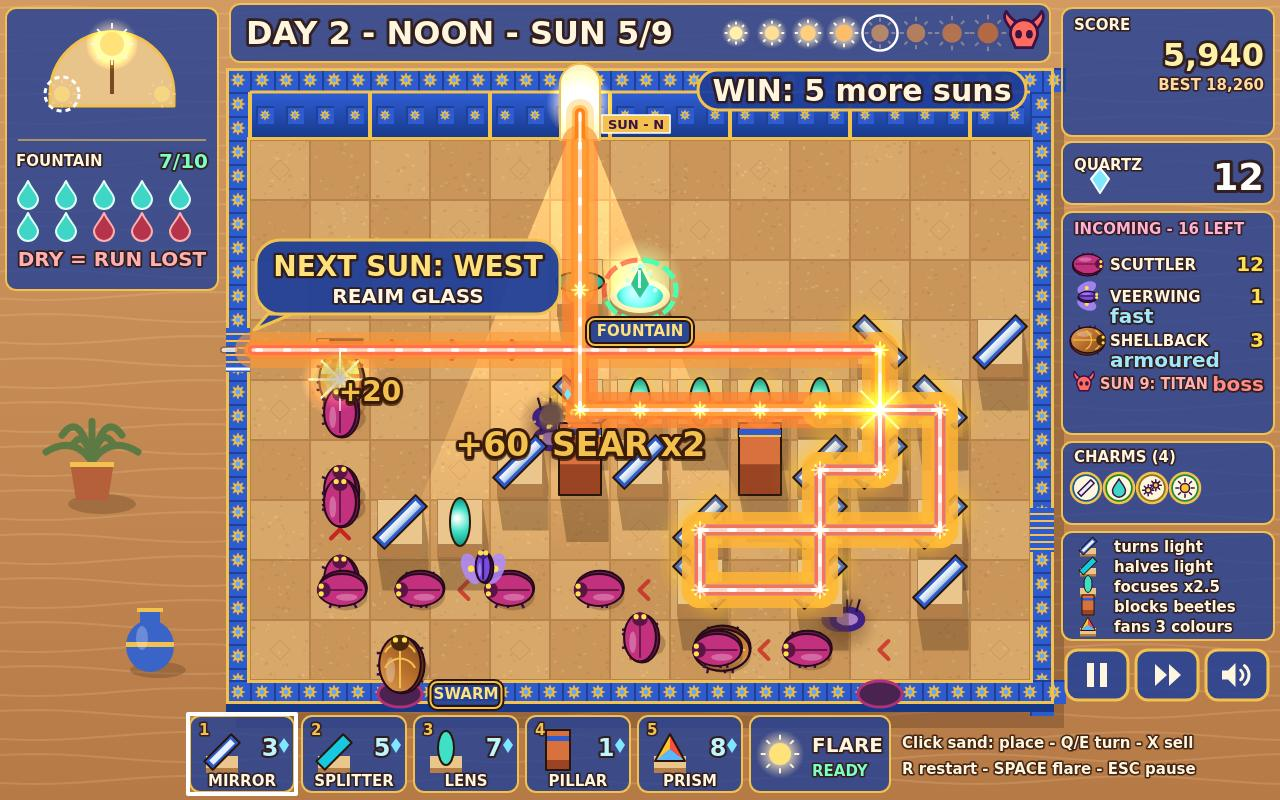
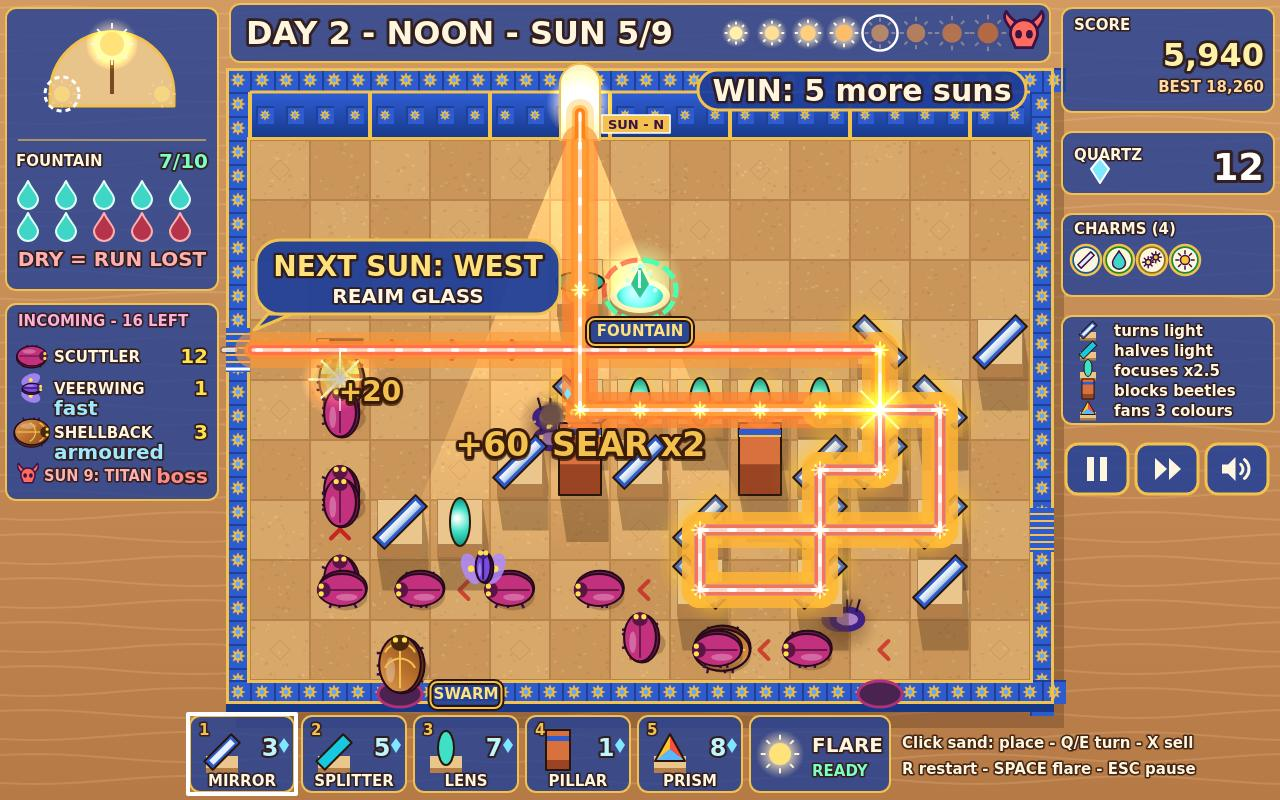
Cover columns rebalanced: INCOMING under the fountain on the left, right column SCORE / QUARTZ / CHARMS / legend / buttons 20 px apart; props removed

Changed region(s): [[0.8125, 0.0938, 1.0, 0.875], [0.0, 0.375, 0.1875, 0.6562], [0.0938, 0.75, 0.1562, 0.8438]]

diff --git a/game/src/render/hud.js b/game/src/render/hud.js
@@ -28,7 +28,7 @@ const HOTBAR = { y: 716, w: 104, h: 76, gap: 8 };
 const HOTBAR_X = 640 - (PIECE_ORDER.length * (HOTBAR.w + HOTBAR.gap) + 150 + 190) / 2;
 
 /** The pause, speed and sound buttons under the right panels: icons only (Esc / F / M on the keyboard). */
-const HUD_BUTTONS = ['pause', 'speed', 'mute'].map((id, k) => ({ id, x: RIGHT_X + 4 + k * 70, y: 650, w: 62, h: 50 }));
+const HUD_BUTTONS = ['pause', 'speed', 'mute'].map((id, k) => ({ id, x: RIGHT_X + 4 + k * 70, y: 444, w: 62, h: 50 }));
 
 /** Which HUD button (pause, speed, mute) is under the mouse, or null. */
 export function hudButtonHit(px, py) {
@@ -253,6 +253,9 @@ function drawLeftPanel(ctx, run) {
   ctx.lineTo(LEFT_X + PANEL_W - 12, 140);
   ctx.stroke();
   drawFountainPips(ctx, run, 166);
+  // INCOMING sits in the left gutter under the fountain.
+  panel(ctx, LEFT_X, 304, PANEL_W, 196);
+  drawIncoming(ctx, run, LEFT_X, 304);
 }
 
 /** The wide bar across the top: day, phase and sun count, then the 9-sun track. */
@@ -295,8 +298,7 @@ function drawQuartzGem(ctx, x, y) {
 }
 
 /** INCOMING: what this sun brings (or still has on the way) and the Titan waiting at sun 9. */
-function drawIncoming(ctx, run, y0) {
-  const x0 = RIGHT_X;
+function drawIncoming(ctx, run, x0, y0) {
   const inWave = run.phase === 'wave';
   text(ctx, inWave ? `INCOMING - ${enemiesRemaining(run)} LEFT` : `${NAMES.sun} ${run.waveIndex + 1} BRINGS`, x0 + 12, y0 + 22, 15, inWave ? '#FFB0D8' : INK, 'left', 900);
   const roster = waveRoster(run.waveIndex, run.diff);
@@ -384,24 +386,23 @@ function drawTooltip(ctx, run, ui, y0) {
 }
 
 
+/** Right column, 20 px apart: SCORE with BEST, QUARTZ, CHARMS, the GLASS legend (the buttons sit under it). */
 function drawRightPanel(ctx, run, ui) {
   const x0 = RIGHT_X;
-  panel(ctx, x0, 8, PANEL_W, 128);
+  panel(ctx, x0, 8, PANEL_W, 104);
   text(ctx, 'SCORE', x0 + 12, 30, 15, INK, 'left', 900);
   text(ctx, run.score.toLocaleString('en-US'), x0 + PANEL_W - 10, 66, 32, '#FFF2A8', 'right', 900);
   // BEST from the save (a difficulty never finished says so: no "BEST 0").
-  text(ctx, ui.best > 0 ? `BEST ${ui.best.toLocaleString('en-US')}` : 'NO BEST YET', x0 + PANEL_W - 10, 90, 15, '#FFD9A0', 'right', 900);
-  panel(ctx, x0, 142, PANEL_W, 62);
-  text(ctx, NAMES.currency, x0 + 12, 170, 15, INK, 'left', 900);
+  text(ctx, ui.best > 0 ? `BEST ${ui.best.toLocaleString('en-US')}` : 'NO BEST YET', x0 + PANEL_W - 10, 92, 15, '#FFD9A0', 'right', 900);
+  panel(ctx, x0, 132, PANEL_W, 62);
+  text(ctx, NAMES.currency, x0 + 12, 160, 15, INK, 'left', 900);
   drawQuartzGem(ctx, QUARTZ_ANCHOR.x, QUARTZ_ANCHOR.y);
   const pulse = Math.max(0, 1 - (run.time - run.feedback.quartzAt) / 0.3);
-  text(ctx, String(run.quartz), x0 + PANEL_W - 10, 190, 32 + pulse * 8, pulse > 0 ? '#FFFFFF' : '#BDF4FF', 'right', 900);
-  panel(ctx, x0, 212, PANEL_W, 222);
-  drawIncoming(ctx, run, 212);
-  panel(ctx, x0, 442, PANEL_W, 82);
-  drawCharmRow(ctx, run, 442);
-  panel(ctx, x0, 532, PANEL_W, 108);
-  drawTooltip(ctx, run, ui, 532);
+  text(ctx, String(run.quartz), x0 + PANEL_W - 10, 180, 32 + pulse * 8, pulse > 0 ? '#FFFFFF' : '#BDF4FF', 'right', 900);
+  panel(ctx, x0, 214, PANEL_W, 82);
+  drawCharmRow(ctx, run, 214);
+  panel(ctx, x0, 316, PANEL_W, 108);
+  drawTooltip(ctx, run, ui, 316);
 }
 
 
@@ -676,18 +677,6 @@ function drawHotbar(ctx, run, ui) {
   }
 }
 
-/** The play HUD's panels and text rows (props and other decoration must keep clear of these). */
-export function hudTextBoxes() {
-  const top = BOARD_X - WALL;
-  return [
-    { text: 'left panel', x0: LEFT_X, y0: 8, x1: LEFT_X + PANEL_W, y1: 8 + LEFT_PANEL_H },
-    { text: 'sun bar', x0: top + 4, y0: 4, x1: top + BOARD_W + WALL * 2 - 4, y1: 62 },
-    { text: 'win pill', x0: top, y0: 68, x1: top + BOARD_W + WALL * 2, y1: 112 },
-    { text: 'right panels', x0: RIGHT_X, y0: 8, x1: RIGHT_X + PANEL_W, y1: 640 },
-    { text: 'hotbar and keys', x0: HOTBAR_X, y0: HOTBAR.y, x1: 1200, y1: HOTBAR.y + HOTBAR.h },
-    { text: 'pause, speed, sound', x0: RIGHT_X, y0: 646, x1: RIGHT_X + PANEL_W, y1: 704 },
-  ];
-}
 
 export function drawHud(ctx, run, ui) {
   drawSunBar(ctx, run);

diff --git a/game/src/render/board.js b/game/src/render/board.js
@@ -99,85 +99,6 @@ function drawStarTile(g, x, y, s) {
   g.fill();
 }
 
-/** A potted palm: terracotta pot, muted fronds (kept dimmer than any beam). */
-function drawPalm(g, x, y) {
-  g.fillStyle = 'rgba(91,58,30,0.3)';
-  g.beginPath();
-  g.ellipse(x + 10, y + 34, 34, 10, 0, 0, Math.PI * 2);
-  g.fill();
-  g.strokeStyle = '#5E7A44';
-  g.lineWidth = 7;
-  g.lineCap = 'round';
-  for (const [dx, dy] of [[-46, -30], [-30, -58], [0, -66], [30, -58], [46, -30], [-20, -40], [22, -42]]) {
-    g.beginPath();
-    g.moveTo(x, y - 8);
-    g.quadraticCurveTo(x + dx * 0.4, y - 8 + dy * 0.9, x + dx, y + dy * 0.6);
-    g.stroke();
-  }
-  g.fillStyle = '#B5603A';
-  g.beginPath();
-  g.moveTo(x - 22, y - 8);
-  g.lineTo(x + 22, y - 8);
-  g.lineTo(x + 16, y + 30);
-  g.lineTo(x - 16, y + 30);
-  g.closePath();
-  g.fill();
-  g.fillStyle = PALETTE.gold;
-  g.fillRect(x - 22, y - 8, 44, 5);
-}
-
-/** A lapis-glazed urn with a gold band. */
-function drawUrn(g, x, y) {
-  g.fillStyle = 'rgba(91,58,30,0.3)';
-  g.beginPath();
-  g.ellipse(x + 8, y + 30, 28, 8, 0, 0, Math.PI * 2);
-  g.fill();
-  g.fillStyle = '#3A64C8';
-  g.beginPath();
-  g.ellipse(x, y + 6, 24, 26, 0, 0, Math.PI * 2);
-  g.fill();
-  g.fillRect(x - 10, y - 30, 20, 16);
-  g.fillStyle = PALETTE.gold;
-  g.fillRect(x - 24, y + 2, 48, 5);
-  g.fillRect(x - 13, y - 32, 26, 4);
-  g.fillStyle = 'rgba(255,255,255,0.25)';
-  g.beginPath();
-  g.ellipse(x - 8, y - 2, 6, 12, 0, 0, Math.PI * 2);
-  g.fill();
-}
-
-/**
- * Life outside the walls: a palm and urns on the sand, placed in the gaps the play HUD leaves, so no
- * prop touches text. Only the play screen shows them (draft and results put text there).
- */
-const PROPS = [
-  { kind: 'palm', x: 92, y: 470 },
-  { kind: 'urn', x: 150, y: 640 },
-];
-
-/** Each prop's bounding box, shadow and fronds included. */
-export function propBoxes() {
-  return PROPS.map((p) => (p.kind === 'palm' ? { text: 'palm', x0: p.x - 50, x1: p.x + 50, y0: p.y - 48, y1: p.y + 44 } : { text: 'urn', x0: p.x - 24, x1: p.x + 36, y0: p.y - 32, y1: p.y + 38 }));
-}
-
-let propCanvas = null;
-let propsShown = false;
-
-/** The props layer, drawn after the walls on the play screen only. */
-export function drawProps(ctx) {
-  if (!propCanvas) {
-    propCanvas = makeCanvas(VIEW_W, VIEW_H);
-    const g = propCanvas.getContext('2d');
-    for (const p of PROPS) (p.kind === 'palm' ? drawPalm : drawUrn)(g, p.x, p.y);
-  }
-  ctx.drawImage(propCanvas, 0, 0);
-  propsShown = true;
-}
-
-/** Whether the last frame drew the props (for the screenshot checks). */
-export function propsVisible() {
-  return propsShown;
-}
 
 /** The static frame: warm surround, lapis side walls, the north wall's oblique front, the low south wall. */
 function buildWallTexture() {
@@ -367,7 +288,6 @@ function drawGodRays(ctx, ap, slot, time) {
 
 /** Floor, walls, the day's three sun windows (lit / next / shuttered), labels and the burrows. */
 export function drawCourtyard(ctx, run, time, allLit = false) {
-  propsShown = false;
   floorCanvas ??= buildFloorTexture();
   wallCanvas ??= buildWallTexture();
   ctx.drawImage(wallCanvas, 0, 0);

diff --git a/game/src/testhook.js b/game/src/testhook.js
@@ -10,25 +10,11 @@ import { loadHistory } from './save.js';
 import { audioProbe } from './audio.js';
 import { squeezeReport } from './render/fit.js';
 import { bannerLayout } from './render/banner.js';
-import { propBoxes, propsVisible } from './render/board.js';
 import { buildIconCount } from './render/results.js';
-import { hudTextBoxes, lastWinPill } from './render/hud.js';
+import { lastWinPill } from './render/hud.js';
 import { boardTagOverlaps, boardTextBoxes, boxTouchesBeam, drawnStarbursts } from './render/fx.js';
 import { boardLabelBoxes } from './render/board.js';
 
-/** Props (palms, urns) drawn this frame whose box touches HUD text or a visible overlay's text. */
-function propOverlaps(app) {
-  if (!propsVisible()) return [];
-  const texts = app.screen === 'play' ? hudTextBoxes() : [];
-  for (const n of document.querySelectorAll('#stage .overlay:not(.hidden) *')) {
-    if (n.childElementCount || !n.textContent.trim()) continue;
-    const r = n.getBoundingClientRect();
-    texts.push({ text: n.textContent.trim().slice(0, 30), x0: r.left, y0: r.top, x1: r.right, y1: r.bottom });
-  }
-  const bad = [];
-  for (const p of propBoxes()) for (const t of texts) if (p.x0 < t.x1 && t.x0 < p.x1 && p.y0 < t.y1 && t.y0 < p.y1) bad.push(`${p.text} / ${t.text}`);
-  return bad;
-}
 
 /** The banner pill's wall and box as drawn (render/banner.js), or null. */
 function bannerBox(run) {
@@ -155,9 +141,6 @@ export function installTestHook(app, api) {
     /** Floating numbers that overlap each other, a floor label or a beam core (measured boxes). */
     textOverlaps() {
       return floaterOverlaps(app);
-    },
-    propOverlaps() {
-      return propOverlaps(app);
     },
     /** Covered board tags on the play board, or on the title demo's courtyard; and how many tags it has. */
     tagOverlaps() {

diff --git a/game/src/render/scene.js b/game/src/render/scene.js
@@ -3,7 +3,7 @@
 // a win floods the courtyard with sunrise, a defeat drains the light.
 import { bannerAtNextGate, drawBeamGhost, drawBeams, drawDecals, drawFx, drawNextSunGhost, drawScreenFx, shakeOffset } from './fx.js';
 import { drawHud } from './hud.js';
-import { drawBoardTags, drawCourtyard, drawMarchLines, drawPiece, drawPieces, drawProps, drawSandSurround, drawShrine } from './board.js';
+import { drawBoardTags, drawCourtyard, drawMarchLines, drawPiece, drawPieces, drawSandSurround, drawShrine } from './board.js';
 import { drawEnemies } from './beetles.js';
 import { drawResultsHero } from './results.js';
 import { shadowVectorFor, sunApertureFor } from '../sun.js';
@@ -71,7 +71,6 @@ export function drawFrame(ctx, frame) {
     ctx.clip();
   }
   drawCourtyard(ctx, run, time, !!frame.titleTraces);
-  if (frame.showHud) drawProps(ctx);
   if (frame.showHud && (phase === 'build' || phase === 'wave')) drawMarchLines(ctx, run, time);
   drawDecals(ctx, fx);
   const shadow = shadowVectorFor(run.aperture.wall);

diff --git a/game/src/render/layout.js b/game/src/render/layout.js
@@ -30,4 +30,4 @@ export function cellAtPixel(px, py) {
 }
 
 /** HUD anchors that effects fly towards (the quartz counter) or burst from (the Sun Fountain pips). */
-export const QUARTZ_ANCHOR = { x: 1100, y: 182 };
+export const QUARTZ_ANCHOR = { x: 1100, y: 172 };

diff --git a/NOTES.md b/NOTES.md
@@ -340,6 +340,11 @@
   tags on the title demo; board tags get a 2 px dark outline. check-shot-truth: no covered tag on the
   cover and the title demo, <= 5 title-demo labels. Cover text items 58 -> 53 (cover tick 4801 again).
 
+- Bench7 item 8: cover columns rebalanced: INCOMING (unchanged) moved to the left gutter under the
+  fountain (x 6-218, y 304-500); the right column is SCORE + BEST, QUARTZ, CHARMS, the GLASS legend and
+  the pause / speed / sound buttons, 20 px apart (11 text items); the palm and urn props and their
+  whole layer are gone. Quartz particles fly to the moved gem. Cover text items stay 53.
+
 ## Next
 - READY FOR A/B (01:00 UTC): bold beams + the three cues on top of 61673e1 (FEATS, GLASS legend,
   INCOMING tags, HUD buttons, SUNSTONE chip, title rules table kept). Verified on the final state:
